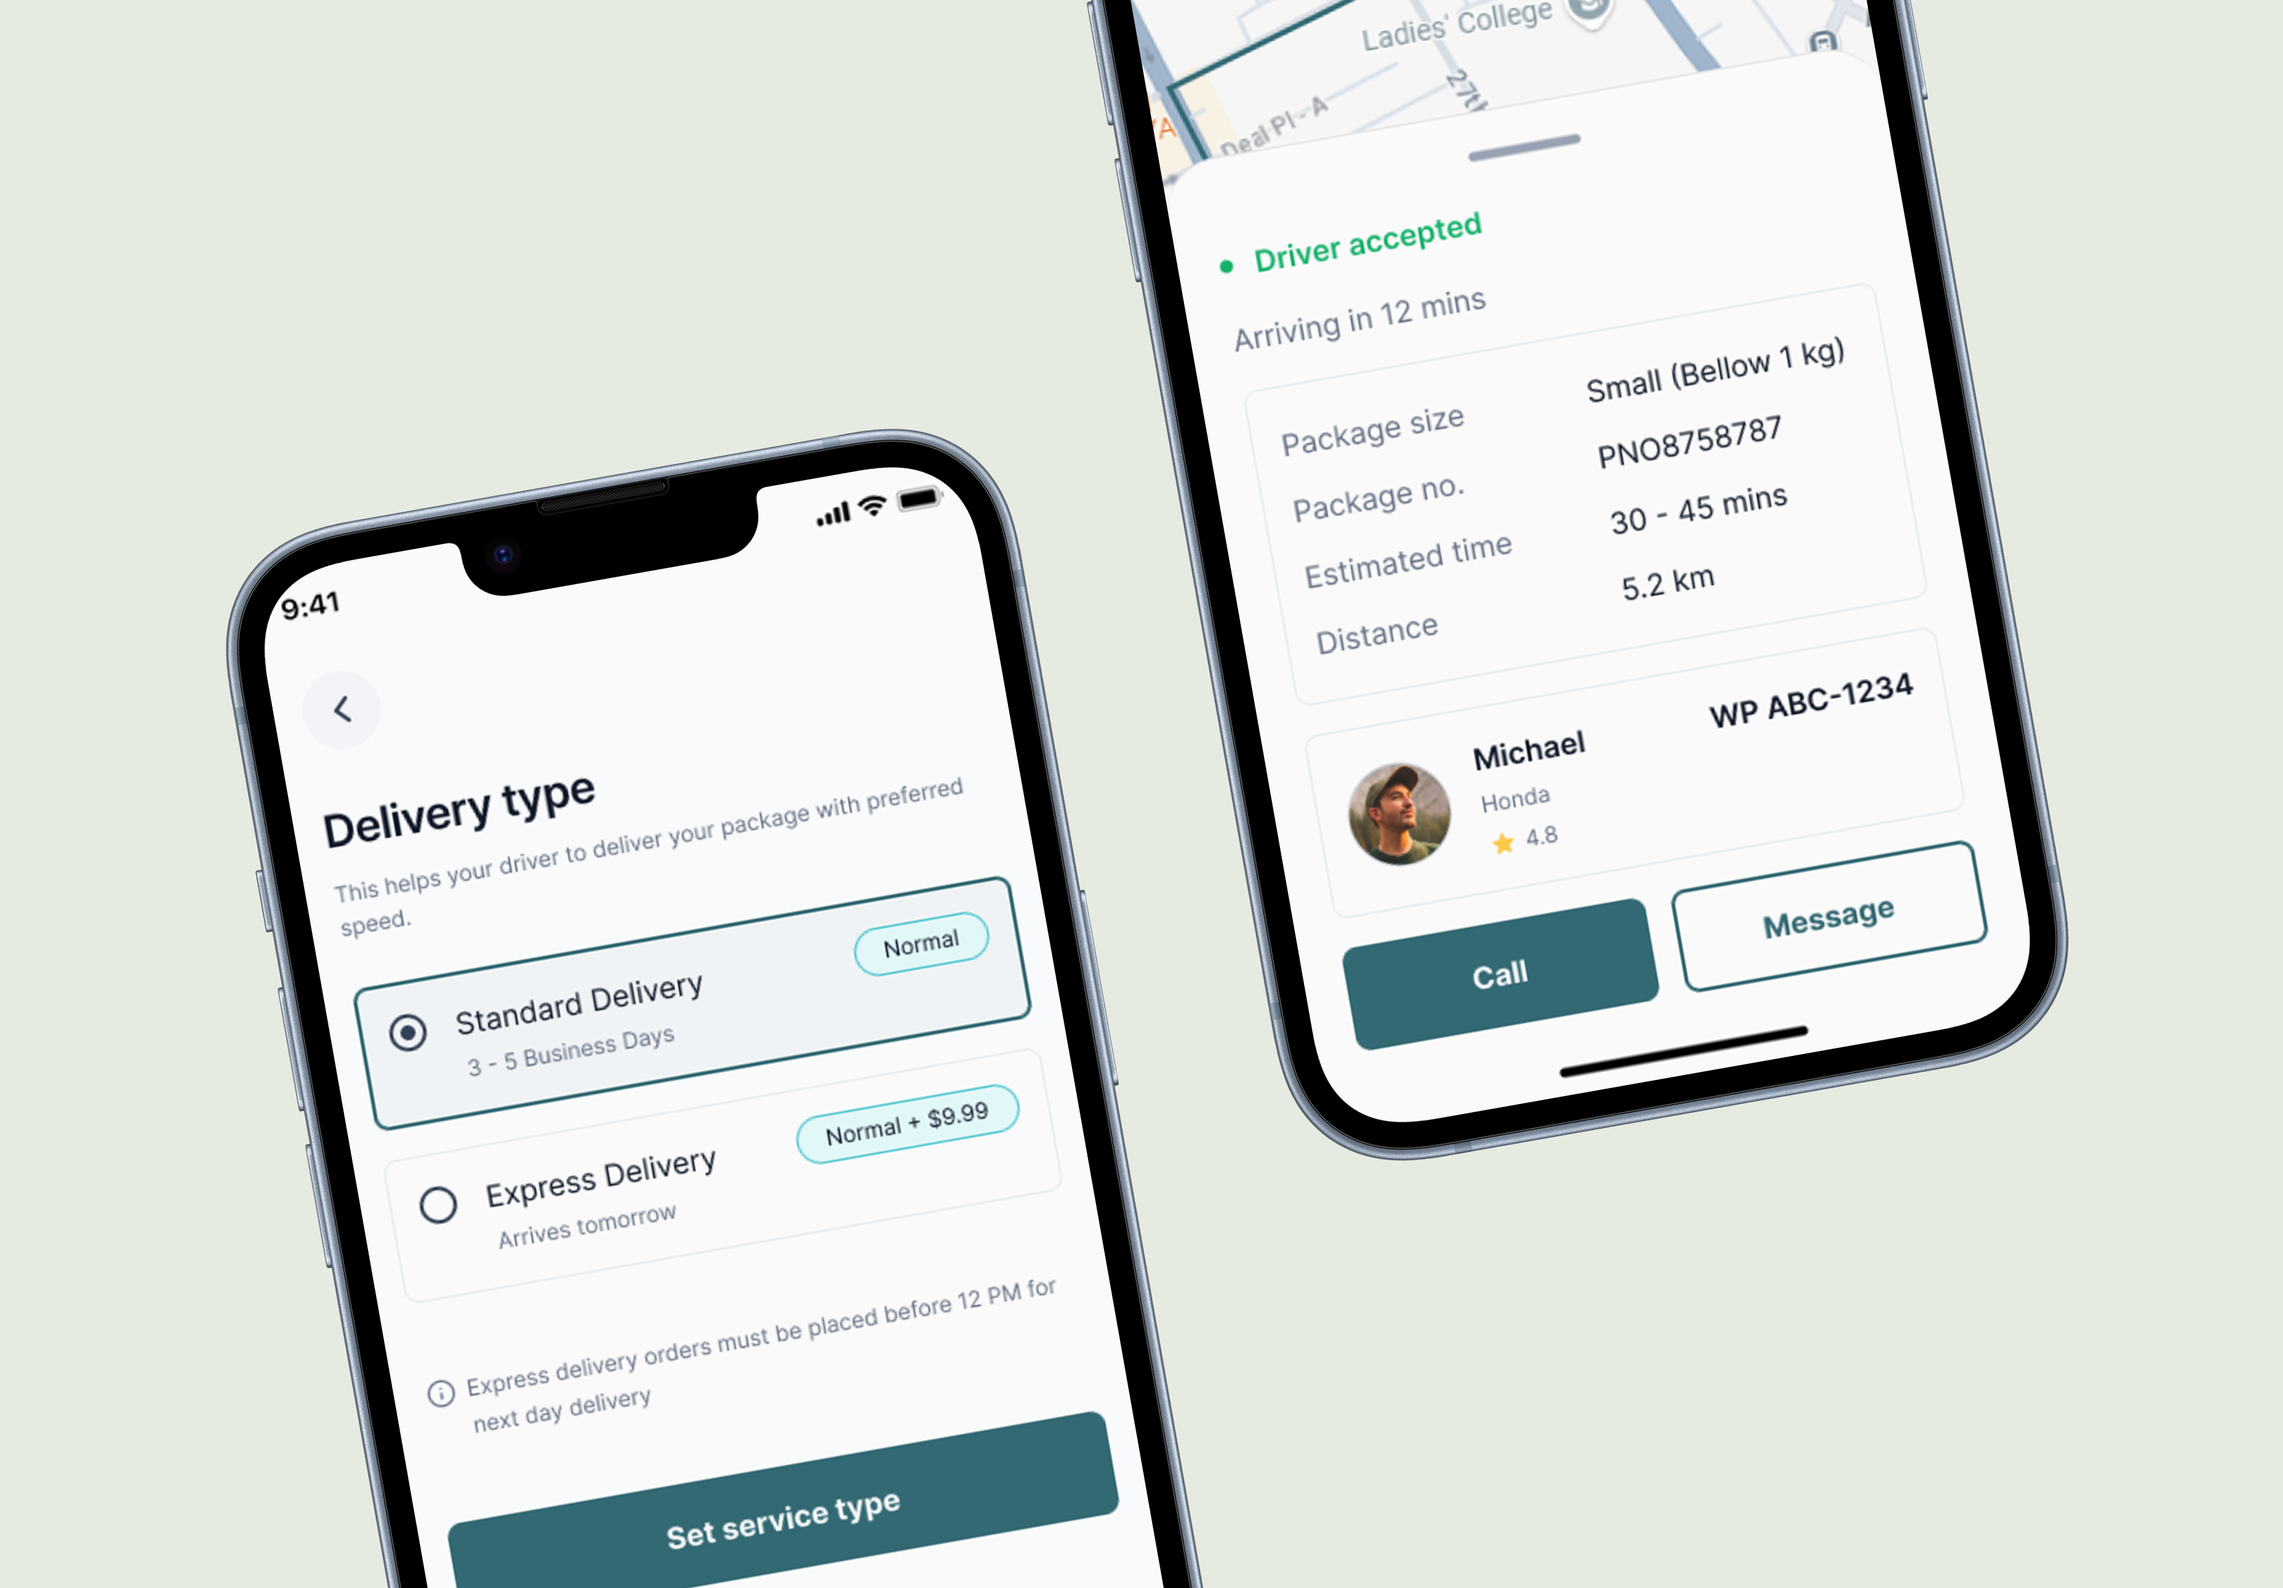
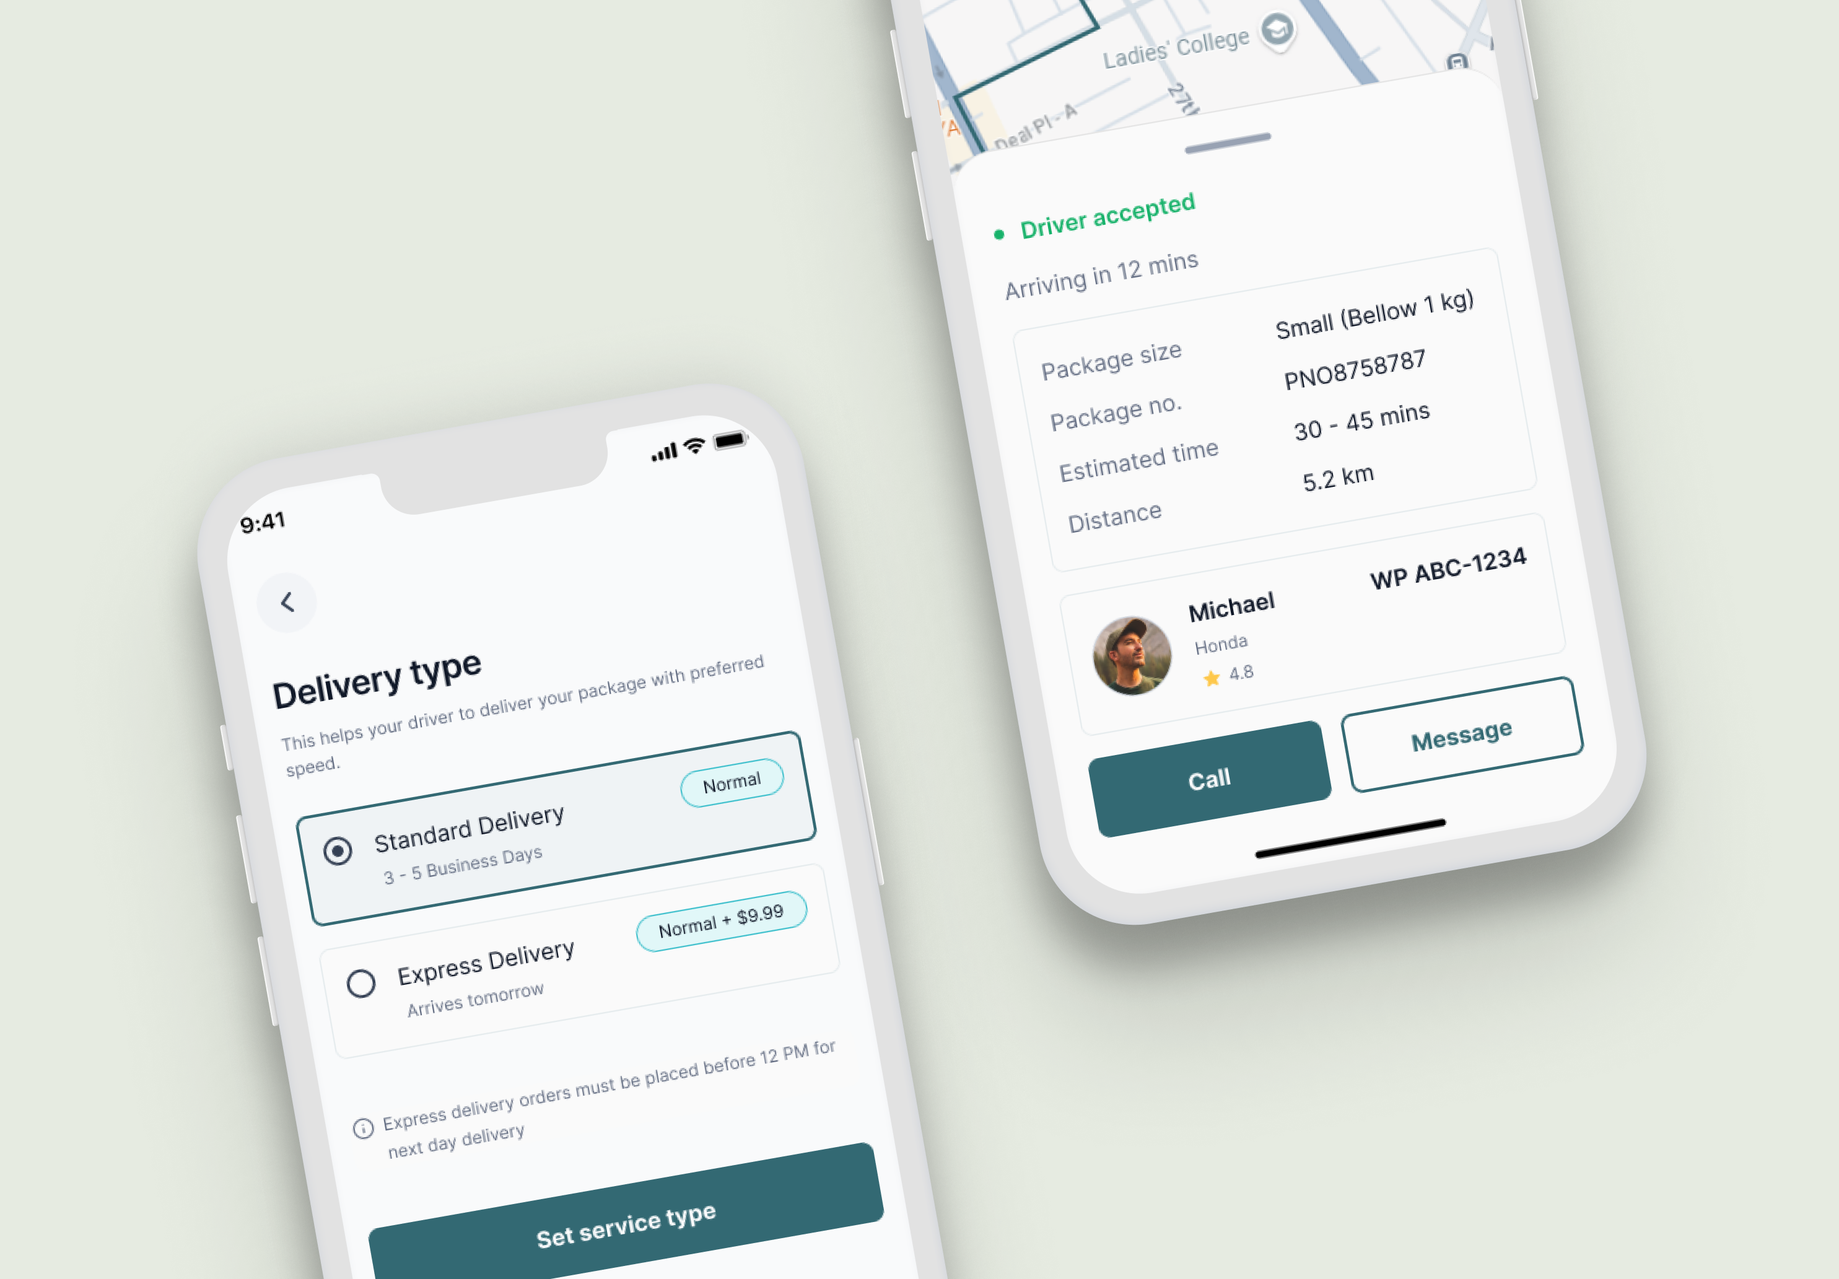
Update hero image 6
Bump hero image cache-busting to ?v=4 so browsers load the new file.

diff --git a/Portfolio v2.dc.html b/Portfolio v2.dc.html
@@ -1231,7 +1231,7 @@ class Component extends DCLogic {
       tabDesignsDash: (this.state.tab || 'designs') === 'designs' ? 0 : 1, tabCasesDash: this.state.tab === 'cases' ? 0 : 1,
       showDesigns: () => this.setState({ tab: 'designs' }), showCases: () => this.setState({ tab: 'cases' }),
       heroOpen: () => { this.setState({ work: this.state.heroWork || 0, tab: 'designs' }); this.goNext(); },
-      heroWorks: Array.from({ length: this.heroCount }, (_, i) => { const on = (this.state.heroWork || 0) === i; return { src: 'assets/work/For Hero/hero-' + (i + 1) + '.png?v=3', label: 'Project ' + (i + 1), op: on ? 1 : 0, dotW: on ? '22px' : '8px', dotBg: on ? '#F2A7C3' : '#FCF3E2', onClick: () => this.setState({ heroWork: i }) }; }),
+      heroWorks: Array.from({ length: this.heroCount }, (_, i) => { const on = (this.state.heroWork || 0) === i; return { src: 'assets/work/For Hero/hero-' + (i + 1) + '.png?v=4', label: 'Project ' + (i + 1), op: on ? 1 : 0, dotW: on ? '22px' : '8px', dotBg: on ? '#F2A7C3' : '#FCF3E2', onClick: () => this.setState({ heroWork: i }) }; }),
       subRef0: this.subRefs[0], subRef1: this.subRefs[1], subRef2: this.subRefs[2], subRef3: this.subRefs[3], subRef4: this.subRefs[4],
       pageRef: this.pageRef, closePage: this.closePage,
       pageOpen: this.state.subPage != null, pageTitle: ['Fun Fact: I’m happiest when there’s something to organize', 'UX community', 'Life beyond the screen', 'Currently curious about', 'Work experience'][this.state.subPage ?? 1],
